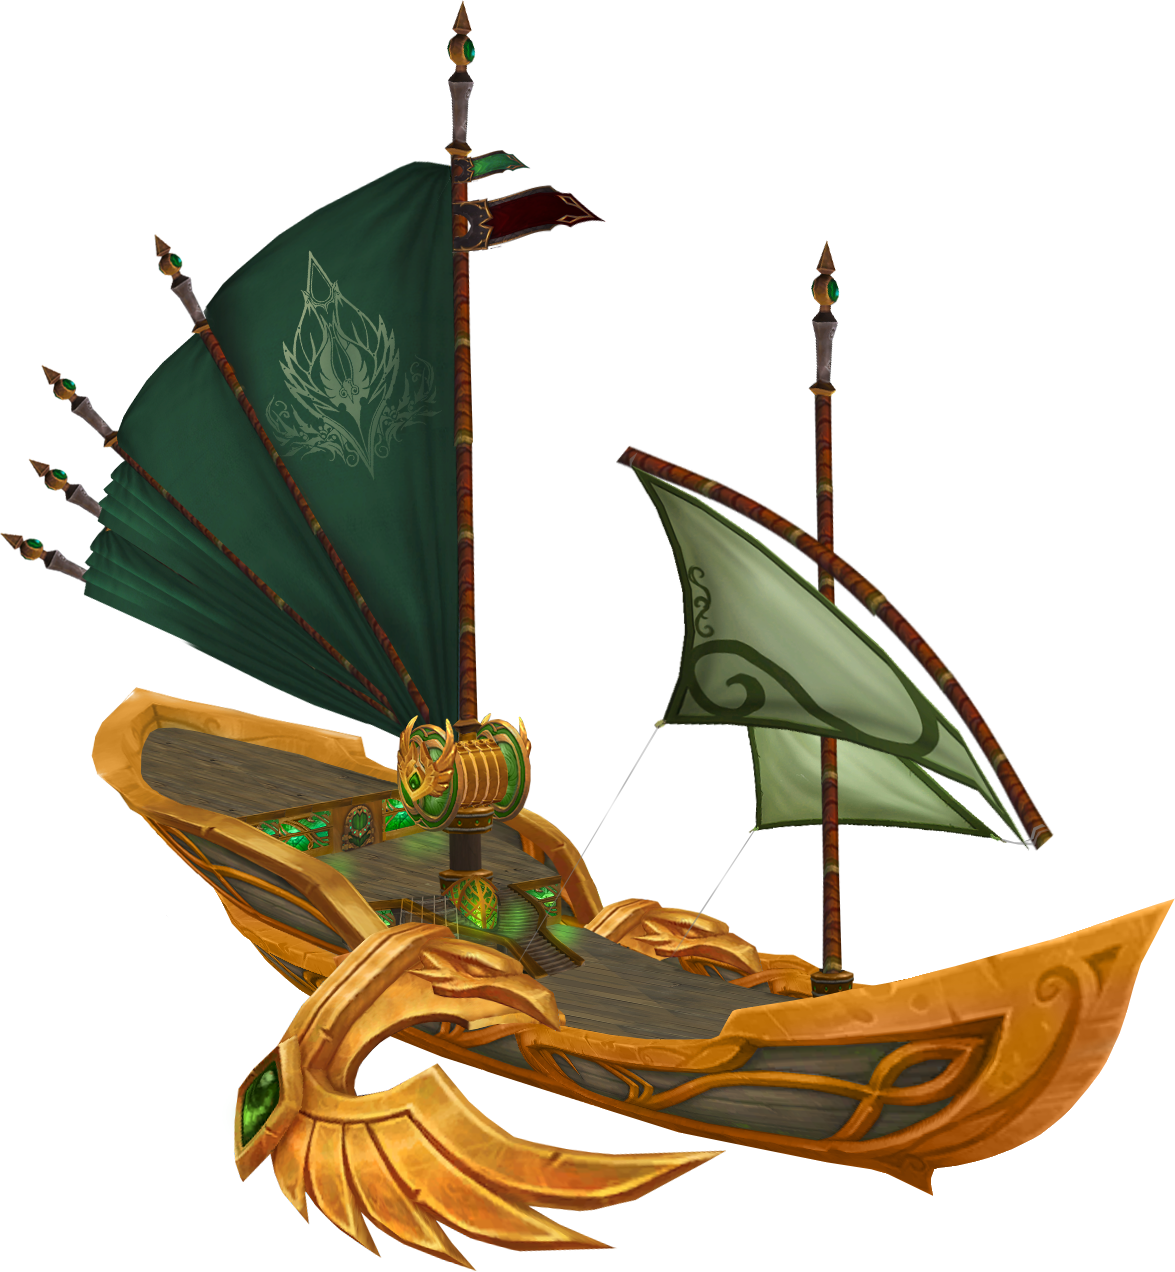
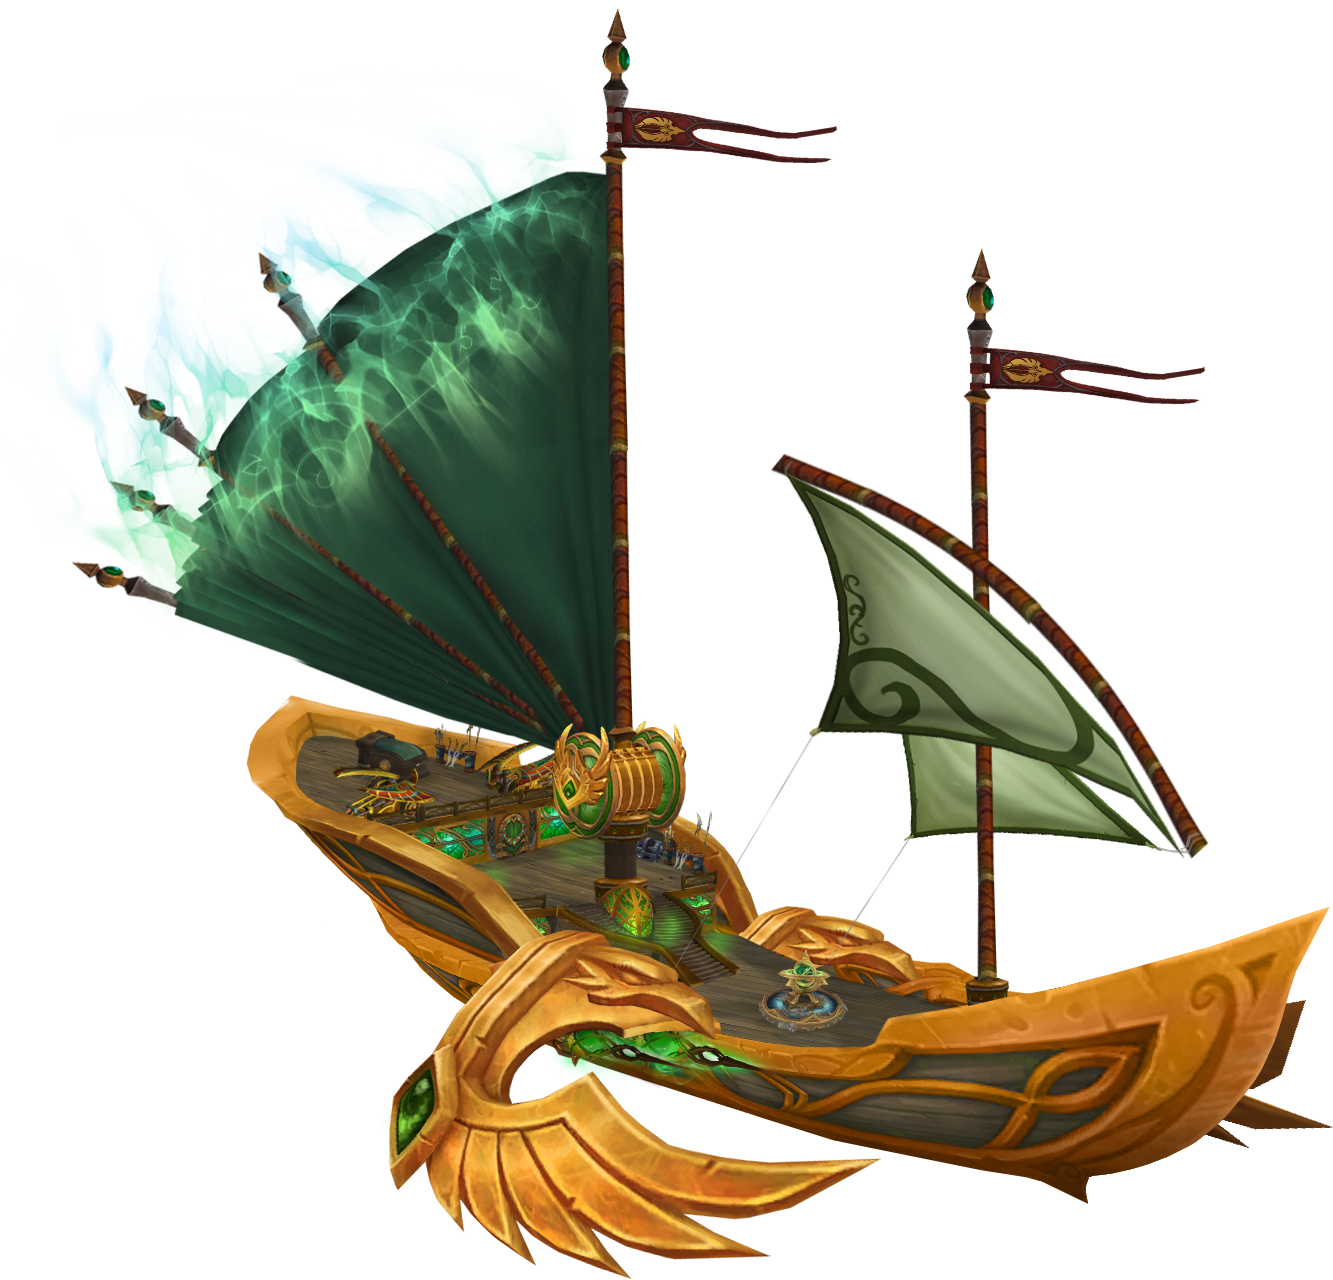
updates for vehicles

diff --git a/docs/wow-conquest/create-vehicle-token.md b/docs/wow-conquest/create-vehicle-token.md
@@ -17,6 +17,68 @@ Using methods for capturing content, start with the base or largest structure. F
 
 Search and capture assets from existing vehicles to get started, from one of the tools or sites or the WC Google Drive. For this example, I found a small boat with a similar hull from BFA assets. I added pieces to add "wings" off the side and levels like a large ship. 
 
+### Custom Base
+
+If you have a vehicle you want to create, but don't have a base vehicle, time to get creative. One great option is to find a screenshot of an existing ship, be it a ship from another game, tank from existing armies, a Warhammer model and use this as the base to build on. 
+
+1. Capture textures and pieces from raids, locations, other ships, even armor. I recommend using wmo files of raids, dungeons, buildings, and cities.
+1. Start a PSD file with the screenshot as layer 1 or background. 
+1. Take cut textures and buildings, laying them over the image to build us the structure and base.
+1. Continue adding effects and shift colors until you have a great new begining.
+1. Save these files in a group or two. You can create duplicates as new bases for variations and more.
+
+Here are a list of files to consider grabbing textures from for .wmo files:
+
+* 12989 - Crypt, above and undergound
+* 12999 - Building, no interior
+* 12993 - Building, inn-like
+* 13251 - Chapel or townhall
+* 13257 - Townhall
+* 12994 - Wall, generic
+* 12995 - Wall, gate
+* 12996 - Wall-post
+* 12997, 13053 - Wall-Tower
+* 13009, 13010, 13038 - Generic half-chunk of wall
+* 13147 - hole in the wall
+* 13739 - Chain
+* 13044 - Floating upper arch/walkway/bridge
+* 13045 - Small arch
+* 13162 - Arch-bridge
+* 13046 - Right-angle straight arch
+* 13135 - Right angle straight arch, large
+* 13023 - Small gate
+* 13030, 13033, 13144  - Square tower
+* 13031, 13145, 13742 - Big hex tower 
+* 13034, 13035 - stairs
+* 13136 - Big tower +  top
+* 13131 - Big bridge
+* 13146 - Elevator
+* 13149, 13659 - Broken big tower
+* 13171, 13167, 13172 - broken tree
+* 13264 - Gazebo
+* 13255, 13495 - Big ass Maldraxxus Fort
+* 13339, 13272, 13275 - Torgast interior, undead?
+* 13285 - Torgast Props
+* 13415, 13733 - Ziggaraut
+* 13096 - Oribus
+* 8du_13489.wmo - Mechagon dungeon tons of metal and buildings
+* 8du_mechagon_platforms01_2829591.wmo - Mechagon outdoor great textures
+* door - .m2 files, beautiful options from the Wardens, Suramar
+* 13738 - Sylvannas ship of evil
+* 13008 - Spooky towers
+* 13047 - Castley chunk, exterior
+* 13018 - Big castle gate, portculus, towers
+* 13027, 13744 - More big Nathria castle chunks
+* 13549 - Crypts
+* 13568 - Castle/Chapel interior
+* 13575 - Nathria arches
+* 13613 - Main hall for big city faction
+* 13653 - Player Faction Area
+* 13725 - Alliance ship
+* garrison - Buildings from Horde and Alliance garrisons
+* suramar - .m2 and wmo files have a ton of incredible options
+* vampire / venthyr, fae / ardenweald, aspirant / bastion, necro / maldraxxus - Covenants have files under different names
+
 ## Change Color
 
 To change the shade of materials such as wood or metal, use Hue & Saturation, Color Replacement, 
@@ -78,9 +140,40 @@ For this wing, it needed to be pointed away from the hull without affecting the 
 
 <iframe src="https://drive.google.com/file/d/1JsLjpIlTaYsZmmcYRzSmiZGhjpnJaA8b/preview" width="100%" height="532" allow="autoplay"></iframe>
 
+## Expand the Content
 
-## MORE TO COME!
+Beyond a base, begin adding features and options to bring the vehicle to life. Find assets, add them as layers, play with the layout, and more.
 
-Additional info will be added, effects, dodge, stained glass windows, etc. Here's where we are so far just using these tools.
+* Crates and chests
+* Weapon racks
+* Built-in weapons like artillery, cannons, etc
+* Details of doors, windows, towers, stairs, walls, etc
+* Magic additions such as runes, circles, crystals, etc
+* Staff on hand, soldiers, casters, healers
+* Small ships that come along with the larger
+* Flags, crests, logos, faction marks
+
+## Hilights and Shadows
+
+After adding a ton of assets, layers, and textures, bring it to life with effects, weathering, shadows, and dodge colors.
+
+
+The [effects gallery](https://drive.google.com/drive/u/0/folders/19agWg3BSb-u4ilvRzTMZW5DhOgTa-XwP) and [Effects PSD](https://drive.google.com/file/d/1q6u-MXOOr9rshs3p0Kquc5oLu58qo2pq/view?usp=sharing) give you a ton of options for adding sparks, fire, magic glows, blood splatters, and more. 
+
+Shadows give dimension to the model and layers. Add a layer, paint with black, set to Multiply, and reduce the opacity. 
+
+Color Dodge can brighten windows, add glows on metal and wood from fires or crystals, spark lanterns, and more. Add a new layer, set to Color Dodge. Pick similar colors to the effects you want to brighten, and paint with a soft brush. Reduce the opacity of the brush to slowly brighten. Add different colors, erase away as needed, add layers of dodge for different areas.
+
+![dodge](/img/vehicle/dodge.jpg)
+
+## Example Ships
+
+Here are a series of vehicles created using this method!
 
 ![Destroyer](/img/vehicle/sindorei-destroyer.png)
+
+![Star Explorer](/img/vehicle/star-explorer.png)
+
+![Ship Golem](/img/vehicle/ship-golem.png)
+
+![Tree 5](/img/vehicle/tree5.png)
